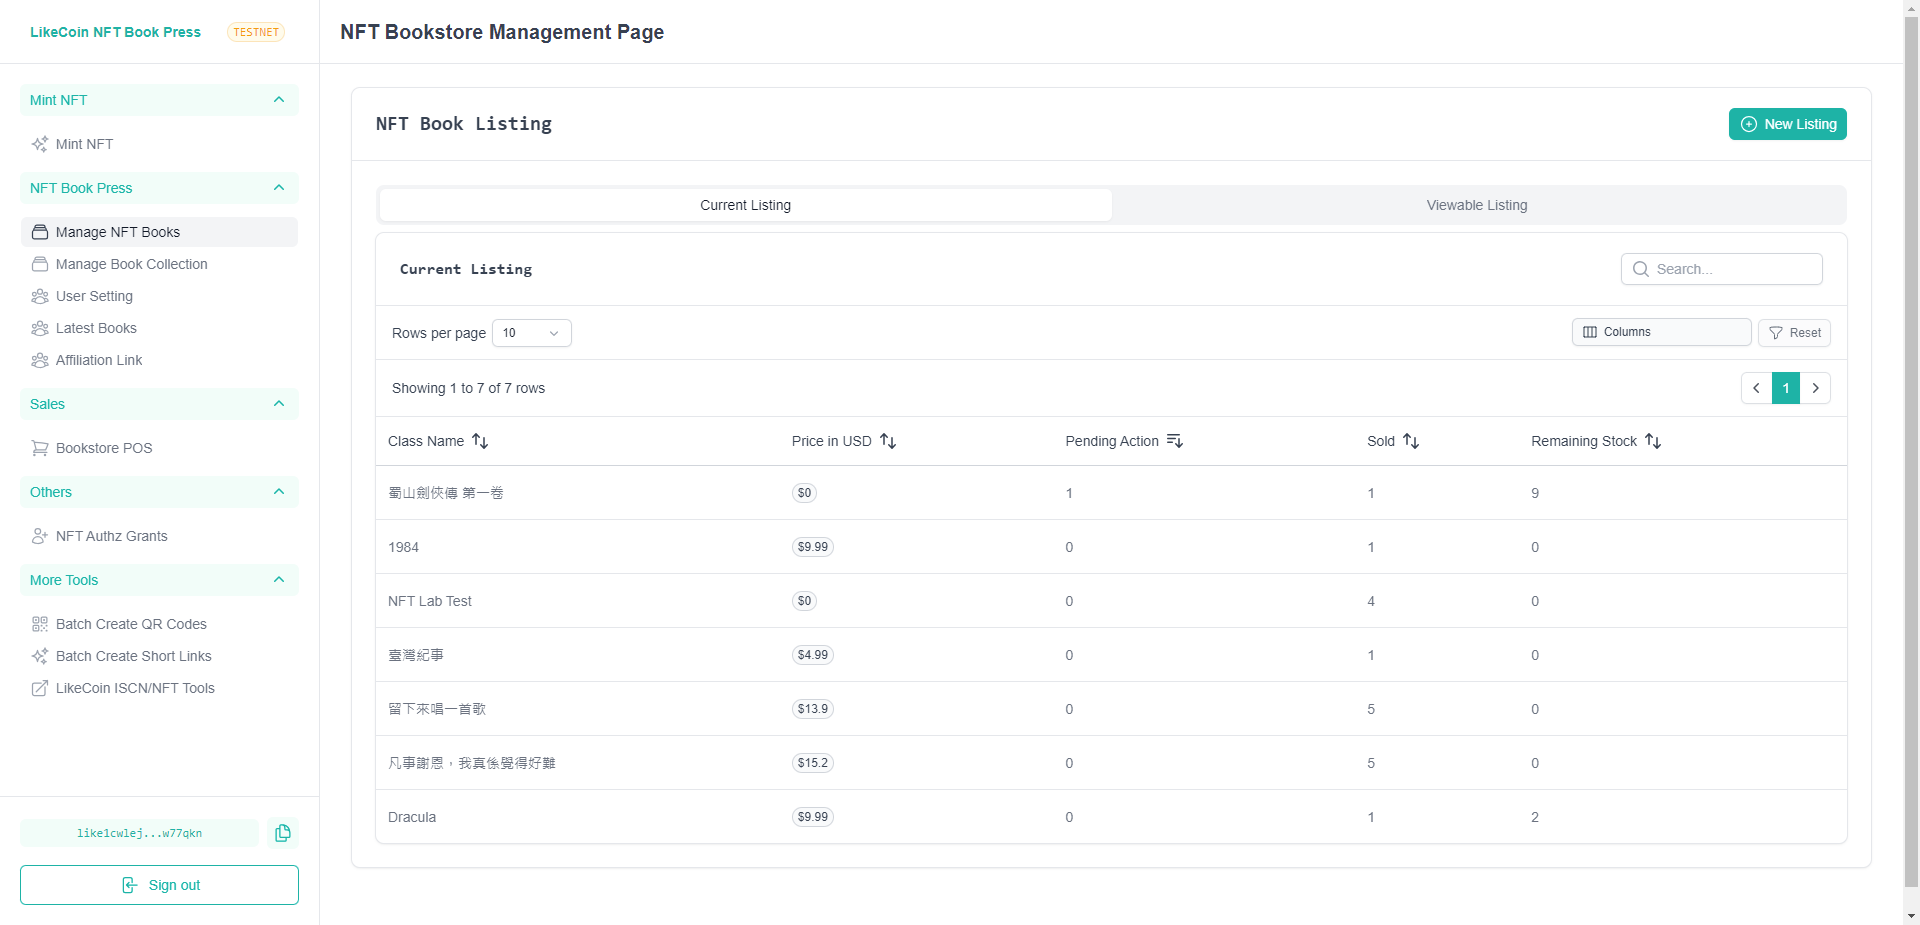
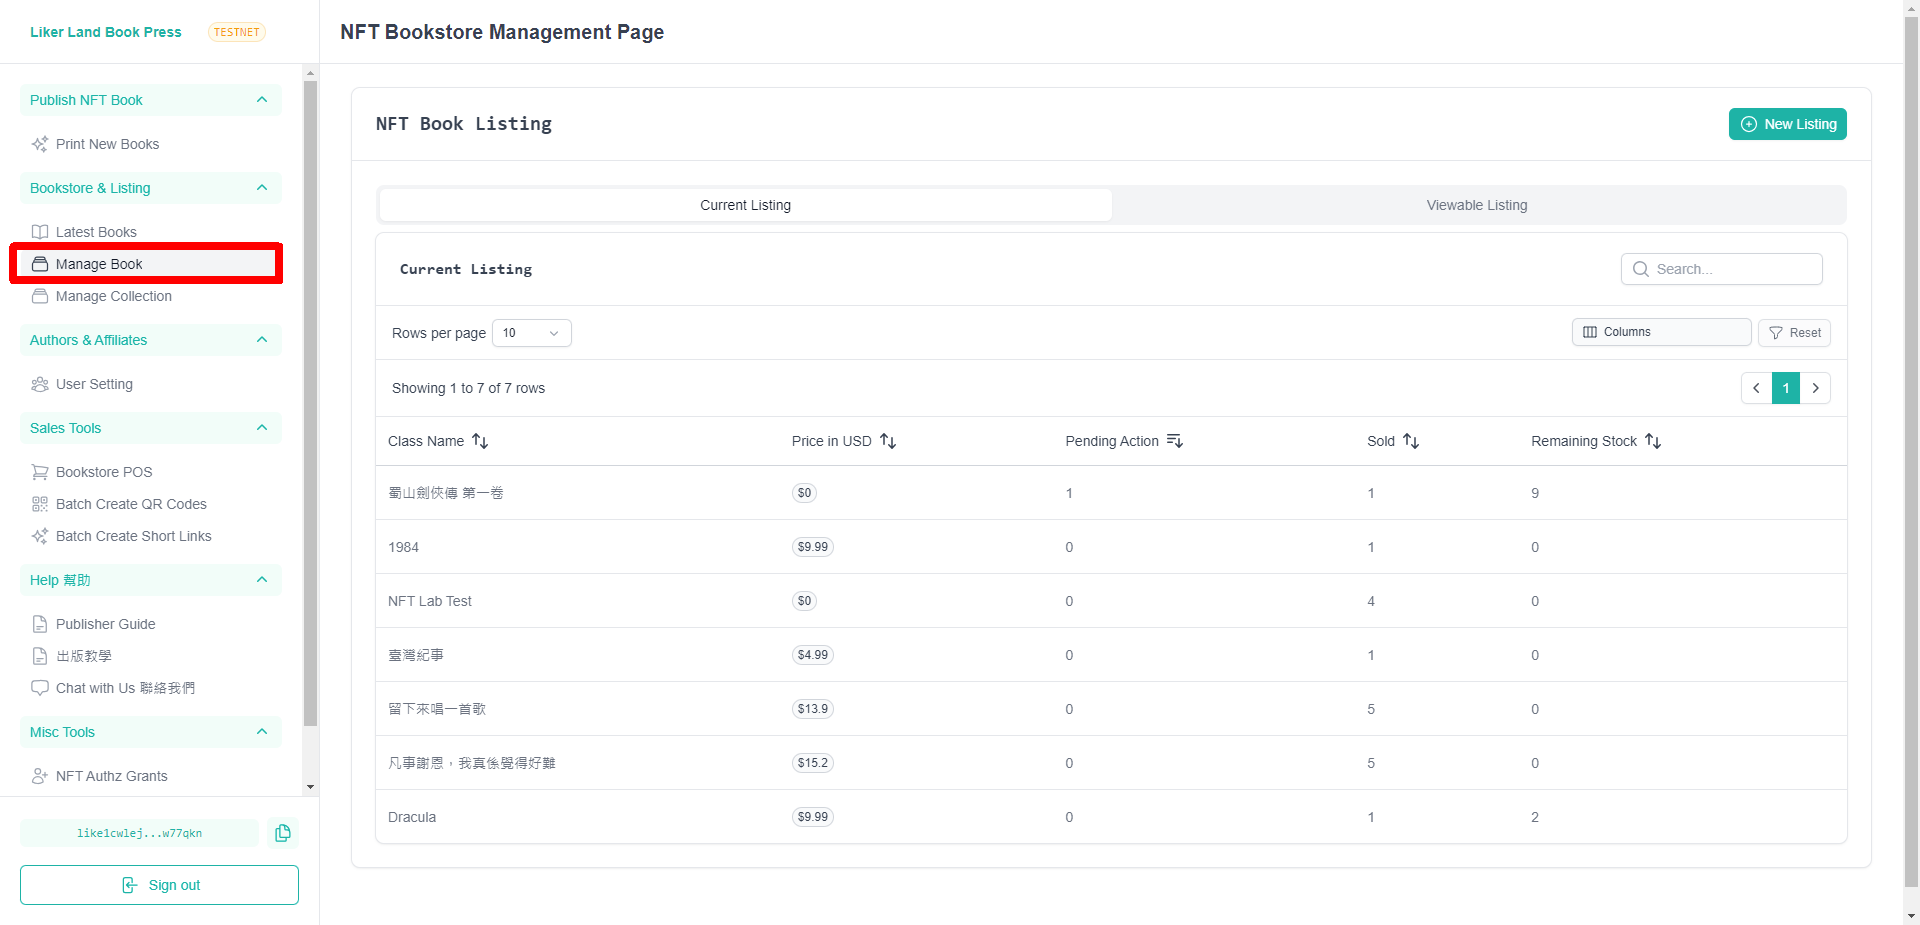
GITBOOK-4727: Manage ebooks

diff --git a/depub/nft-book-press/README.md b/depub/nft-book-press/README.md
@@ -20,7 +20,7 @@ Publishing an ebook on the blockchain involves the following processes:
 
 and other follow up actions:
 
-4. [Manage NFT books](nft-book-store.md)
+4. [Manage Book](nft-book-store.md)
 5. [Manage Book Collection](collection.md)
 6. [Liker Land Book Press User Setting](user/)
 7. [Affiliation Link Setting](affiliation-link.md)
@@ -146,7 +146,7 @@ Since it is not yet available for sale, you will see the words "Sold Out" on Lik
 
 ### Step 2: Book Listing
 
-Return to LikeCoin NFT BookPress, click "**Continue to publish NFT Book**", and the [NFT Book Store Management Page](https://likecoin.github.io/nft-book-press/nft-book-store) will appear.
+Return to Liker Land BookPress, click "**Continue to publish NFT Book**", and the NFT Bookstore Management Page will appear.
 
 {% hint style="info" %}
 If you accidentally closed the page, you can enter your NFT Class ID in [Step 1](./#register-iscn) "Enter ISCN ID or NFT Class ID", and you will see "Continue to publish NFT Book". The Class ID is the string after the URL of your ebook. For example, your NFT URL is  https://liker.land/zh-Hant/nft/class/likenft1qq06n42guzvt087wxunaajvz3alx6wadq6mfz0yz57gffwsrgrasl2m59x, and the NFT Class ID is likenft1qq06n42guzvt087wxunaajvz3alx6wadq6mf z0yz57gffwsrgrasl2m59x.

diff --git a/depub/nft-book-press/nft-book-store.md b/depub/nft-book-press/nft-book-store.md
@@ -6,7 +6,7 @@ description: Managing Published ebooks
 
 After the book is published, if you would like to understand the sales overview or make more settings, you can use the Manage NFT Books. In addition to the settings for listing ebooks, it also provides various additional management functions.
 
-Go to the [LikeCoin NFT Book Press](https://likecoin.github.io/nft-book-press/) website, click "**Sign in**" in the bottom left corner to connect to your wallet, then click "[Manage NFT Books](https://likecoin.github.io/nft-book-press/nft-book-store)".
+Go to the [Liker Land Book Press](https://publish.liker.land/) website, click "**Sign in**" in the bottom left corner to connect to your wallet, then click "[Manage Books](https://publish.liker.land/nft-book-store)".
 
 ### NFT Book Listing <a href="#nft-book-listing-current-listing" id="nft-book-listing-current-listing"></a>
 

diff --git a/depub/nft-book-press/replenishment.md b/depub/nft-book-press/replenishment.md
@@ -34,7 +34,7 @@ Enter the number of NFTs to mint in the "Number of NFT to mint" field. After fil
 
 Click [Manage NFT Books](https://likecoin.github.io/nft-book-press/nft-book-store) to displays the ebooks that are currently listed. Select the one that needs replenishing and manage it.
 
-<figure><img src="../../.gitbook/assets/Manage NFT Books 1.png" alt=""><figcaption><p>Current Listing</p></figcaption></figure>
+<figure><img src="broken-reference" alt=""><figcaption><p>Current Listing</p></figcaption></figure>
 
 Click on the version that needs replenishing. If you need to create a new edition, click “New Edition".
 
